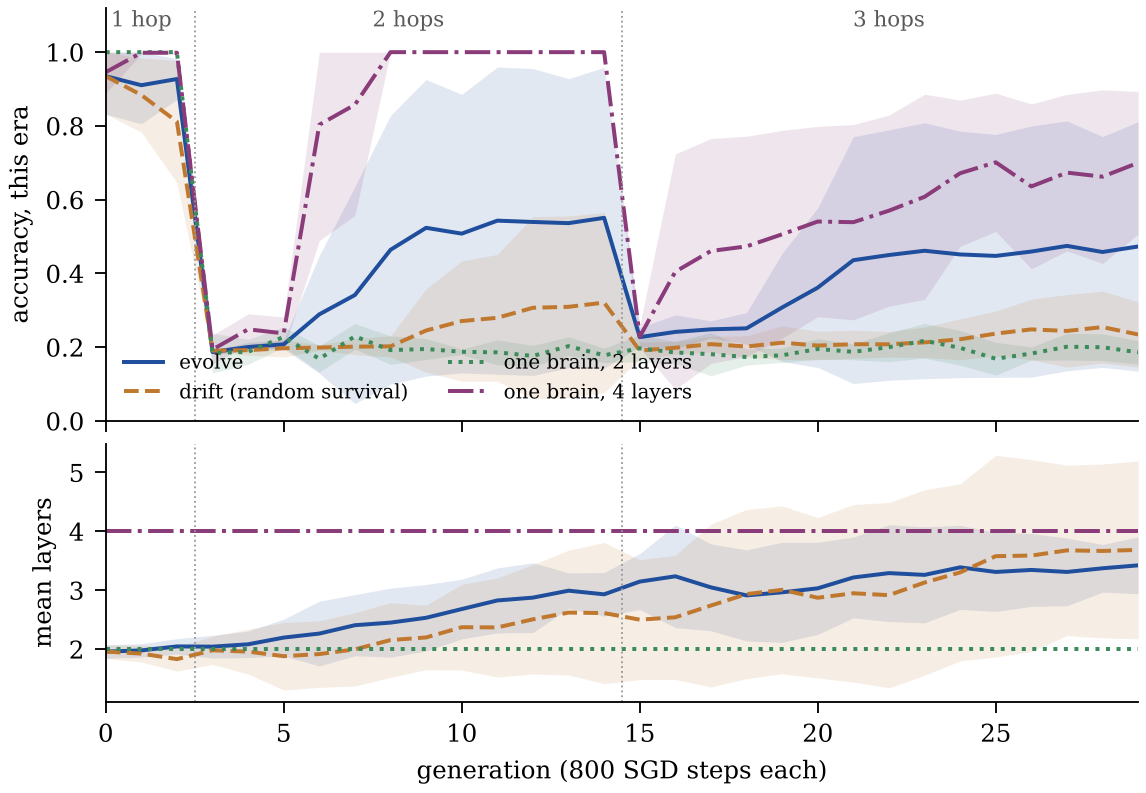
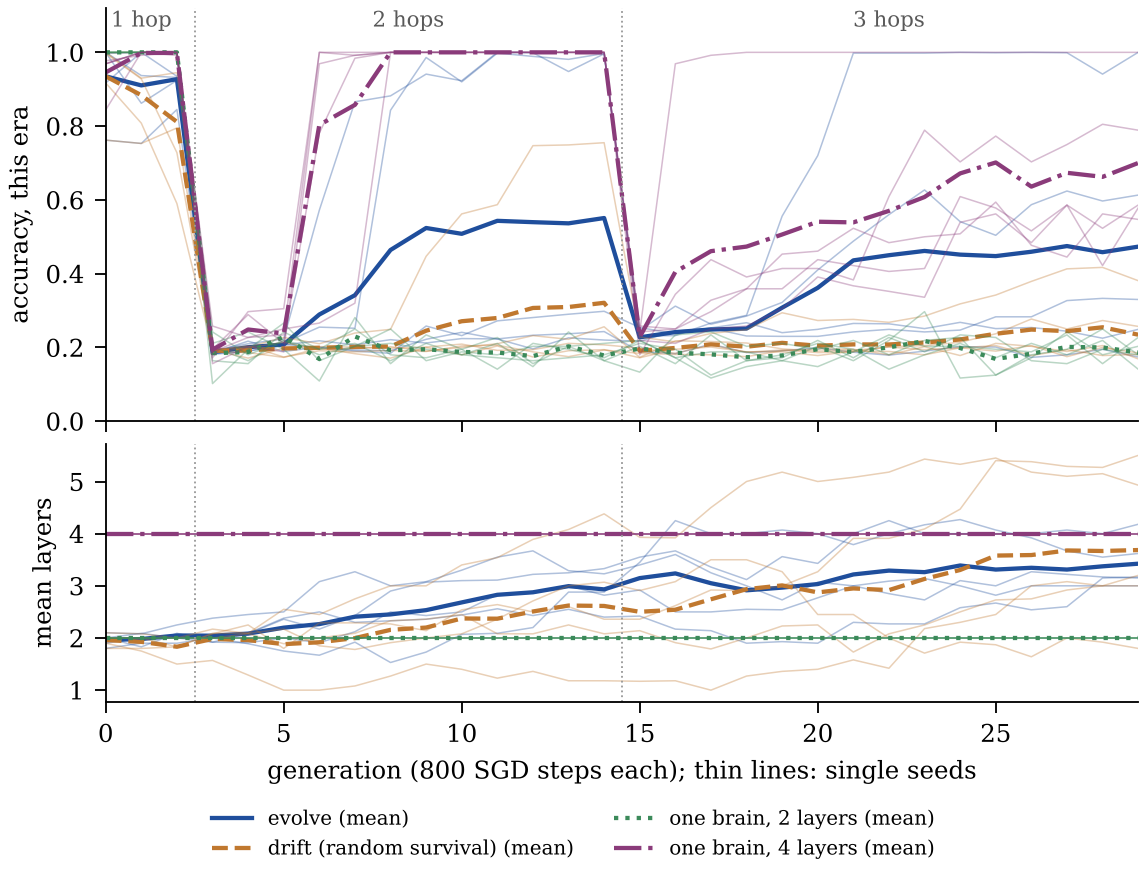
evolve-2 write-up: claim only what the logs show
An independent review checked every number (all reproduce) and found the
story told about them too strong. The rewrite: depth grows under random
survival too (the mutation operator alone drifts it up), so a rising layer
count is not adaptation; solving was simultaneous in many related brains,
not a sweep from one winner, and the summary logs cannot say which lineages;
drift kept a solver in one run (0.76); selection lost three near-perfect
brains in seed 9 because survival ranks energy; the three-hop era is
confounded by replay and the inherited two-hop solution; brains ignore the
hop marker. New confounds section (starvation and hunting differ between
arms, width and learning rate co-evolve, no mutational load on the single
brains, missing baselines, settings chosen after pilots), statistics named
(difference-in-means permutation test, Fisher on recovery counts), k+1
layers stated for this setting with the log-depth result cited. The figure
shows every seed instead of bands over a bimodal outcome, the README's run
is labelled the best of five, and data/evolve2/config.json records the
settings.

diff --git a/docs/make_evolve2.py b/docs/make_evolve2.py
@@ -72,12 +72,9 @@ for arm, (color, ls, label) in ARMS.items():
         continue
     for axis, key in ((ax, "mean_acc"), (bx, "mean_layers")):
         a = series(runs[arm], key)
-        m = a.mean(0)
-        if len(a) > 1:
-            sd = a.std(0, ddof=1)
-            lo, hi = (np.clip(m - sd, 0, 1), np.clip(m + sd, 0, 1)) if key == "mean_acc" else (m - sd, m + sd)
-            axis.fill_between(g, lo, hi, color=color, alpha=0.13, lw=0)
-        axis.plot(g, m, ls, color=color, lw=1.3, label=label)
+        for row in a:                                 # every seed: the outcomes are bimodal
+            axis.plot(g, row, "-", color=color, lw=0.5, alpha=0.35)
+        axis.plot(g, a.mean(0), ls, color=color, lw=1.4, label=label + " (mean)")
 for axis in (ax, bx):
     for e in eras:
         axis.axvline(e - 0.5, color="0.6", lw=0.6, ls=":")
@@ -87,11 +84,13 @@ for s, e in zip([0] + eras, eras + [gens]):
             ha="center", fontsize=7, color="0.35")
 ax.set_ylim(0, 1.12)
 ax.set_ylabel("accuracy, this era")
-ax.legend(frameon=False, fontsize=6.5, loc="lower left", ncol=2)
 bx.set_ylabel("mean layers")
-bx.set_xlabel("generation (800 SGD steps each)")
+bx.set_xlabel("generation (800 SGD steps each); thin lines: single seeds")
 bx.set_xlim(0, gens - 1)
 fig.tight_layout(pad=0.3)
+handles, labels = ax.get_legend_handles_labels()
+fig.legend(handles, labels, frameon=False, fontsize=6.5, ncol=2, loc="upper center",
+           bbox_to_anchor=(0.5, 0.0))
 out = ROOT / "docs" / "img" / "evolve2.png"
 fig.savefig(out, dpi=220, bbox_inches="tight", pad_inches=0.04)
 print("wrote", out.relative_to(ROOT))
@@ -123,7 +122,7 @@ if SHOW.exists():
             bottom += n
     bx.set_ylim(0, 1)
     bx.set_ylabel("share of brains")
-    bx.set_xlabel("generation (seed 8)")
+    bx.set_xlabel("generation (seed 8, the best of five evolving runs)")
     bx.set_xlim(-0.5, gens - 0.5)
     bx.legend(frameon=False, fontsize=6, ncol=6, loc="upper center", bbox_to_anchor=(0.5, -0.32))
     for axis in (ax, bx):

diff --git a/docs/EVOLVE2.md b/docs/EVOLVE2.md
@@ -12,8 +12,7 @@ hops are asked, the query is a node x_j, and the answer is x_{j+k}. Each hop is
 one more lookup that depends on the one before it, and the pair that answers it
 can sit anywhere in the list.
 
-Depth is now required. One brain from scratch, 16,000 steps
-(`python3 pill.py --hops`):
+One brain from scratch, width 32, 16,000 steps (`python3 pill.py --hops`):
 
 | layers | 1 hop | 2 hops | 3 hops |
 |---|---|---|---|
@@ -22,7 +21,11 @@ Depth is now required. One brain from scratch, 16,000 steps
 | 4 | 1.00 | 1.00 | 1.00 |
 | 5 | 1.00 | 1.00 | 1.00 |
 
-k hops need k + 1 layers.
+In this setting two hops needed three layers and three hops needed four. That
+is a property of this width and budget, not a law: k-hop induction can be
+solved at a depth that grows like log k (Sanford, Hsu and Telgarsky, 2024), and
+the 0.64 for three layers on three hops is where training stood at 16,000
+steps, not a proven ceiling.
 
 ## The world
 
@@ -31,11 +34,13 @@ k hops need k + 1 layers.
   questions mixed in every batch, a three-layer brain stays near chance on two
   hops for 8,000 steps (`python3 docs/probes_evolve2.py mix`). Memory still
   replays old questions, marker and all.
-- `--momentum 0.9`: the paper's learner (plain SGD) is about four times
-  slower, and an era would need 20 to 30 generations.
-- `--arch-mu 0.3 --max-layers 6`: the architecture mutates in 30% of births. A
-  new layer is inserted as the identity (`pill.morph`), so a deeper child
-  starts out behaving exactly like its parent.
+- `--momentum 0.9`: with the paper's plain SGD, one hop took four generations
+  (data/neural, train arm); with momentum it takes one or none.
+- `--arch-mu 0.3 --max-layers 6`: the architecture mutates in 30% of births
+  (one layer more or less, a new width, or a new MLP size). A new layer is
+  inserted as the identity (`pill.morph`), so a deeper child starts out nearly
+  identical to its parent; birth noise perturbs the new block like every other
+  weight.
 
 With none of these flags the world is the paper's: seed 7 reproduces its run
 exactly.
@@ -49,7 +54,7 @@ Four arms, five seeds each (7 to 11), K = 12, 800 steps per life:
 
 ## Results
 
-<p align="center"><img src="img/evolve2.png" width="620" alt="Accuracy on each era's task and mean depth per generation for the four arms, five seeds"></p>
+<p align="center"><img src="img/evolve2.png" width="620" alt="Accuracy on each era's task and mean depth per generation for the four arms; thin lines are single seeds"></p>
 
 A run counts as recovered when its population's mean accuracy reaches 0.9
 within the era. The per-seed numbers are mean accuracy over the era's last
@@ -62,65 +67,124 @@ three generations, seeds 7 to 11 in order.
 | one brain, 2 layers | 0 of 5 | 0.19 0.19 0.18 0.17 0.19 | 0 of 5 | 0.21 0.21 0.18 0.18 0.21 |
 | one brain, 4 layers | 5 of 5 | 1.00 1.00 1.00 1.00 1.00 | 1 of 5 | 0.53 0.78 0.52 0.56 1.00 |
 
-<p align="center"><img src="img/evolve2_s8.png" width="620" alt="Seed 8: accuracy at each depth, and the share of brains with each number of layers, per generation"></p>
-
-What the runs show:
+What the runs show, and what they do not:
 
 1. **The world outgrows a fixed brain.** A brain of the old depth stays at
    chance for all 27 generations after the first era.
-2. **A population can grow the depth it needs.** In two of five runs a deeper
-   lineage learned two hops and swept the population within one or two
-   generations (seed 8: 0.25, 0.84, 0.99). In seed 8 the population then went
-   on to four layers and solved three hops as well: two layers became three
-   when the world asked for two hops, and three became four when it asked for
-   three.
-3. **Random survival never swept.** Deep brains arose under drift as often as
-   under selection, and mean depth even ended higher (3.7 against 3.4), but
-   nothing kept the ones that learned. Depth alone means nothing; the footprint
-   of selection is in which deep brains survive.
-4. **Evolution did not beat knowing the answer.** A single brain born with
+2. **Depth grows with or without selection.** One layer more or less, with the
+   depth kept between 1 and 6, is a random walk that spreads depth out toward
+   an average of 3.5 even when nothing selects. Under drift, mean depth ended
+   at 3.7, against 3.4 under selection (over the whole run, 2.65 against 2.82).
+   Deeper brains were present before each era asked for them: seed 8 had a
+   three-layer brain in generation 0, and its four-layer brains appeared from
+   generation 9, six generations before three hops were asked. A rising layer
+   count is not, by itself, a sign of adaptation.
+3. **Evolving populations recovered more often than drifting ones, at this
+   sample size not significantly.** Two of five evolving runs recovered from
+   the step to two hops, none of the drifting runs did. A solving brain
+   (best organism at 0.9 or more) appeared in two evolving runs and in one
+   drifting run, seed 9, where the solver lasted six generations and the
+   population mean climbed to 0.76 without crossing 0.9. Once a solver was
+   present, the evolving populations reached 0.9 within one to three
+   generations in three of four cases; in the fourth (seed 9, three hops) the
+   solvers were lost, see 5. The one drifting case climbed for five
+   generations and stopped short.
+4. **The jumps were simultaneous, not a sweep from one winner.** In seed 8 no
+   brain had solved two hops in generation 7 (best 0.29); in generation 8 at
+   least eight of ten had, all children of five parents that had not, in a
+   population already nine-tenths three-layer. Seed 9 shows the same: best
+   0.31 in generation 5, at least five of twelve solving in generation 6.
+   Children inherit trained weights, so relatives carry the same partly formed
+   circuit and can cross the threshold in the same life. The logs of these
+   runs hold population summaries only, so which lineages crossed cannot be
+   checked; runs from now on also log every organism (`net_organisms*.jsonl`).
+5. **Selection can lose its best brains.** In seed 9, during the three-hop era,
+   a brain at 0.99 or 1.00 appeared in generations 20, 22 and 23, and each time
+   the brain with the most energy was only at 0.56 to 0.67; the next
+   generation's best was at most 0.59. Survival ranks energy, and energy is
+   inherited energy plus this life's gain, so a new solver can be outranked.
+   The population settled on three-layer brains at about 0.6.
+6. **The three-hop era measures the curriculum as much as depth.** A four-layer
+   brain from scratch learns three hops within 16,000 steps (the table above;
+   within 8,000 to 10,000 in three of three seeds checked by the review), but
+   in the world, after an era of two hops, the four-layer brain solved it in
+   one run of five. Two candidate causes, not separated: replay fills half of
+   every batch with the previous era's questions for about four generations,
+   and the brain starts from an inherited two-hop solution.
+7. **Brains ignore the hop marker.** In the evolving runs that solved a new
+   depth (seeds 8 and 9), accuracy on the old depths fell to 0.00 to 0.06,
+   below the 0.16 to 0.27 of a brain that never solved anything: they answer
+   at the current depth whatever the marker asks. Replay cannot keep the old skill, since the
+   buffer turns over within a few generations.
+8. **Evolution did not beat knowing the answer.** A single brain born with
    four layers solved two hops in every run, in three to five generations, on
-   a twelfth of the population's compute. Evolution found depth it was not
-   told about; it did not do better than being told.
-5. **A partial solution can trap a population.** In seed 9, three-layer
-   brains reached about 0.6 on three hops (the ceiling the table above shows
-   for three layers), and the four-layer mutants that appeared lost to them.
-6. **Each era's gain erases the last.** After an era change, the old skill
-   decays to chance; memory replay does not hold it.
+   an eleventh of the population's brain lives (30 against 334 per run; about
+   an eighth weighted by layers).
 
-When a grown brain finally learns two hops is heavy-tailed: with no mutation
-at all, one three-layer brain grown from a one-hop parent learned in its first
-800-step life, and another was still stuck after fifteen
-(`python3 docs/probes_evolve2.py clicks`). A population holds many such
-tickets at once, and selection keeps the first to win. That is what happened in
-seeds 8 and 9, and not in the other three.
+## Confounds
 
-**Statistics.** Evolve against drift, on accuracy over the era's last three
-generations, one-sided exact permutation test over all 252 splits: p = 0.09
-for two hops, p = 0.12 for three. Suggestive, not significant with five seeds.
+- **Drift differs in more than survival.** It skips the starvation rule, so
+  its populations stay larger (smallest population 9 to 10, against 4 to 8
+  under evolve). Hunting is rarer under drift (1 to 7 hunts per run, against 8
+  to 50), because the diet gene is only selected under evolve, and a hunt
+  copies a whole brain, so predation may have spread solvers in the evolving
+  runs.
+- **Depth is not the only thing that evolves.** Width, MLP size and learning
+  rate mutate too; the fittest brains in solving generations had widths from
+  16 to 48. The four-layer single brain stays at width 32, MLP multiplier 2,
+  learning rate 0.05.
+- **The single brains carry no mutational load.** In the populations, the 1%
+  chance per tensor of a hard reset hits at least one tensor in about a
+  quarter of births.
+- **Missing baselines.** A population of the same size with random fixed
+  depths and no selection, and a single brain that grows a layer with `morph`
+  whenever it stalls, would separate selection from search.
+- **Settings were chosen after pilots** (with an architecture mutation rate of
+  0.2 and eras of eight generations, one pilot never recovered from the step to
+  two hops), and the pilot logs were not kept. The tests below are
+  exploratory.
+
+## Statistics
+
+Evolve against drift, difference in means of the last-three-generation
+accuracy, one-sided exact permutation test over all 252 splits of the ten
+runs: p = 0.09 for two hops, p = 0.12 for three. On recovery counts (2 of 5
+against 0 of 5), Fisher's exact test gives p = 0.22. With five seeds none of
+these is significant.
+
+When a grown brain finally learns two hops varies widely: with no mutation at
+all, one three-layer brain grown from a one-hop parent learned in its first
+800-step life, and another was still near chance after fifteen
+(`python3 docs/probes_evolve2.py clicks`, two seeds per condition). A
+population holds many such tickets at once, which is one reason it could beat
+a lone learner of unknown depth; these runs do not show how often it does.
 
 ## Limits
 
 - Five seeds per arm, one task family, populations of twelve.
-- The world deepens on a clock that was set by hand, not in response to the
-  population.
-- The population spends twelve times the compute of a single brain.
-- Momentum, the architecture mutation rate and the era lengths were chosen
-  after pilots: with a mutation rate of 0.2 and eras of eight generations, one
-  pilot never recovered from the change to two hops. The settings were then
-  fixed, and the same for every arm.
+- The world deepens on a clock set by hand, not in response to the population.
 
 ## Reproduce
 
 ```bash
 for s in 7 8 9 10 11; do
-  for arm in "" "--control drift" "--control train --layers 2" "--control train --layers 4"; do
-    python3 world_net.py --gens 30 --K 12 --steps 800 --seed $s --eras 3,12,15 \
-      --momentum 0.9 --arch-mu 0.3 --max-layers 6 $arm
+  for arm in evolve drift train2 train4; do
+    case $arm in
+      evolve) flag="" ;;
+      drift)  flag="--control drift" ;;
+      train2) flag="--control train --layers 2" ;;
+      train4) flag="--control train --layers 4" ;;
+    esac
+    mkdir -p runs/$arm-s$s && cp pill.py world_net.py runs/$arm-s$s/
+    (cd runs/$arm-s$s && python3 world_net.py --gens 30 --K 12 --steps 800 --seed $s \
+       --eras 3,12,15 --momentum 0.9 --arch-mu 0.3 --max-layers 6 $flag)
   done
 done
-python3 docs/make_evolve2.py          # rebuilds the figures and the numbers above from data/evolve2/
+python3 docs/make_evolve2.py      # rebuilds the figures and numbers above from data/evolve2/
 ```
 
-Run each arm in its own folder: runs of the same arm write to the same log
-files. The records of all twenty runs are in [data/evolve2/](../data/evolve2/).
+The records of all twenty runs, and the settings they share, are in
+[data/evolve2/](../data/evolve2/).
+
+Sanford, C., Hsu, D., and Telgarsky, M. (2024). Transformers, parallel
+computation, and logarithmic depth. *ICML 2024*. arXiv:2402.09268.

diff --git a/README.md b/README.md
@@ -67,22 +67,29 @@ more compute than one lineage gets.
 
 ## evolve-2: a world that deepens
 
-<p align="center"><img src="docs/img/evolve2_s8.png" width="560" alt="One population over 30 generations: accuracy at each depth the world asks for, and the share of brains with each number of layers"></p>
+<p align="center"><img src="docs/img/evolve2_s8.png" width="560" alt="The best of five evolving runs over 30 generations: accuracy at each depth the world asks for, and the share of brains with each number of layers"></p>
 
 In evolve-2 the world asks for one more hop of reasoning every few
 generations: find the node after the query, then the node after that, then
-the one after that. k hops need k + 1 attention layers. In the run above the
-population answered by growing its brains. Two layers became three when the
-world asked for two hops, and three became four when it asked for three. Each
-time, one deeper lineage cracked the task and swept the population within one
-or two generations.
+the one after that. In this setting two hops needed three attention layers and
+three hops needed four, so a brain of the old depth stays at chance.
 
-That happened in two of five runs, and the full climb to four layers in one.
-Random survival with the same mutations never swept, and a brain of the old
-depth never left chance. A single brain born with the right depth did better
-still: evolution here finds depth it was not told about, it does not beat
-being told. Method, numbers, statistics and limits:
-[docs/EVOLVE2.md](docs/EVOLVE2.md).
+The run above is the best of five. When the world asked for two hops, the
+population had already drifted to three-layer brains, and eight of ten of them
+cracked it in the same generation; when it asked for three, it did it again
+with four. The other runs temper that picture:
+
+- depth grew just as much under random survival, because the mutation
+  operator alone pushes it up;
+- evolving populations recovered from the step to two hops in two of five
+  runs, random survival in none (one drifting run kept a solver and reached
+  0.76), which five seeds cannot call significant (p = 0.09);
+- in one run, selection lost three near-perfect brains in a row, because
+  survival ranks energy, not accuracy;
+- a single brain born with the right depth beat them all, on an eleventh of
+  the brain lives.
+
+Method, numbers, confounds and statistics: [docs/EVOLVE2.md](docs/EVOLVE2.md).
 
 ## Run it
 
@@ -198,10 +205,11 @@ expression world is not seeded.
 ## Honest limits
 
 1. **Selection is not yet doing the work** on the one-hop task; see finding 3.
-   In a world that deepens (evolve-2) it does some: populations grew the
-   depth each new era needed in two of five runs, which random survival never
-   did. Five seeds are too few to call that significant (p = 0.09), and a
-   brain born with the right depth still did better.
+   In a world that deepens (evolve-2), evolving populations recovered from a
+   new era more often than drifting ones (two of five runs against none), but
+   five seeds cannot call that significant (p = 0.09), depth grew as much
+   without selection, and a brain born with the right depth did better than
+   either.
 2. **Small and few.** K = 12, five seeds, one task; the expression-world
    numbers come from single runs. Each organism is scored on 128 sequences, a
    standard error of about ±0.04.
